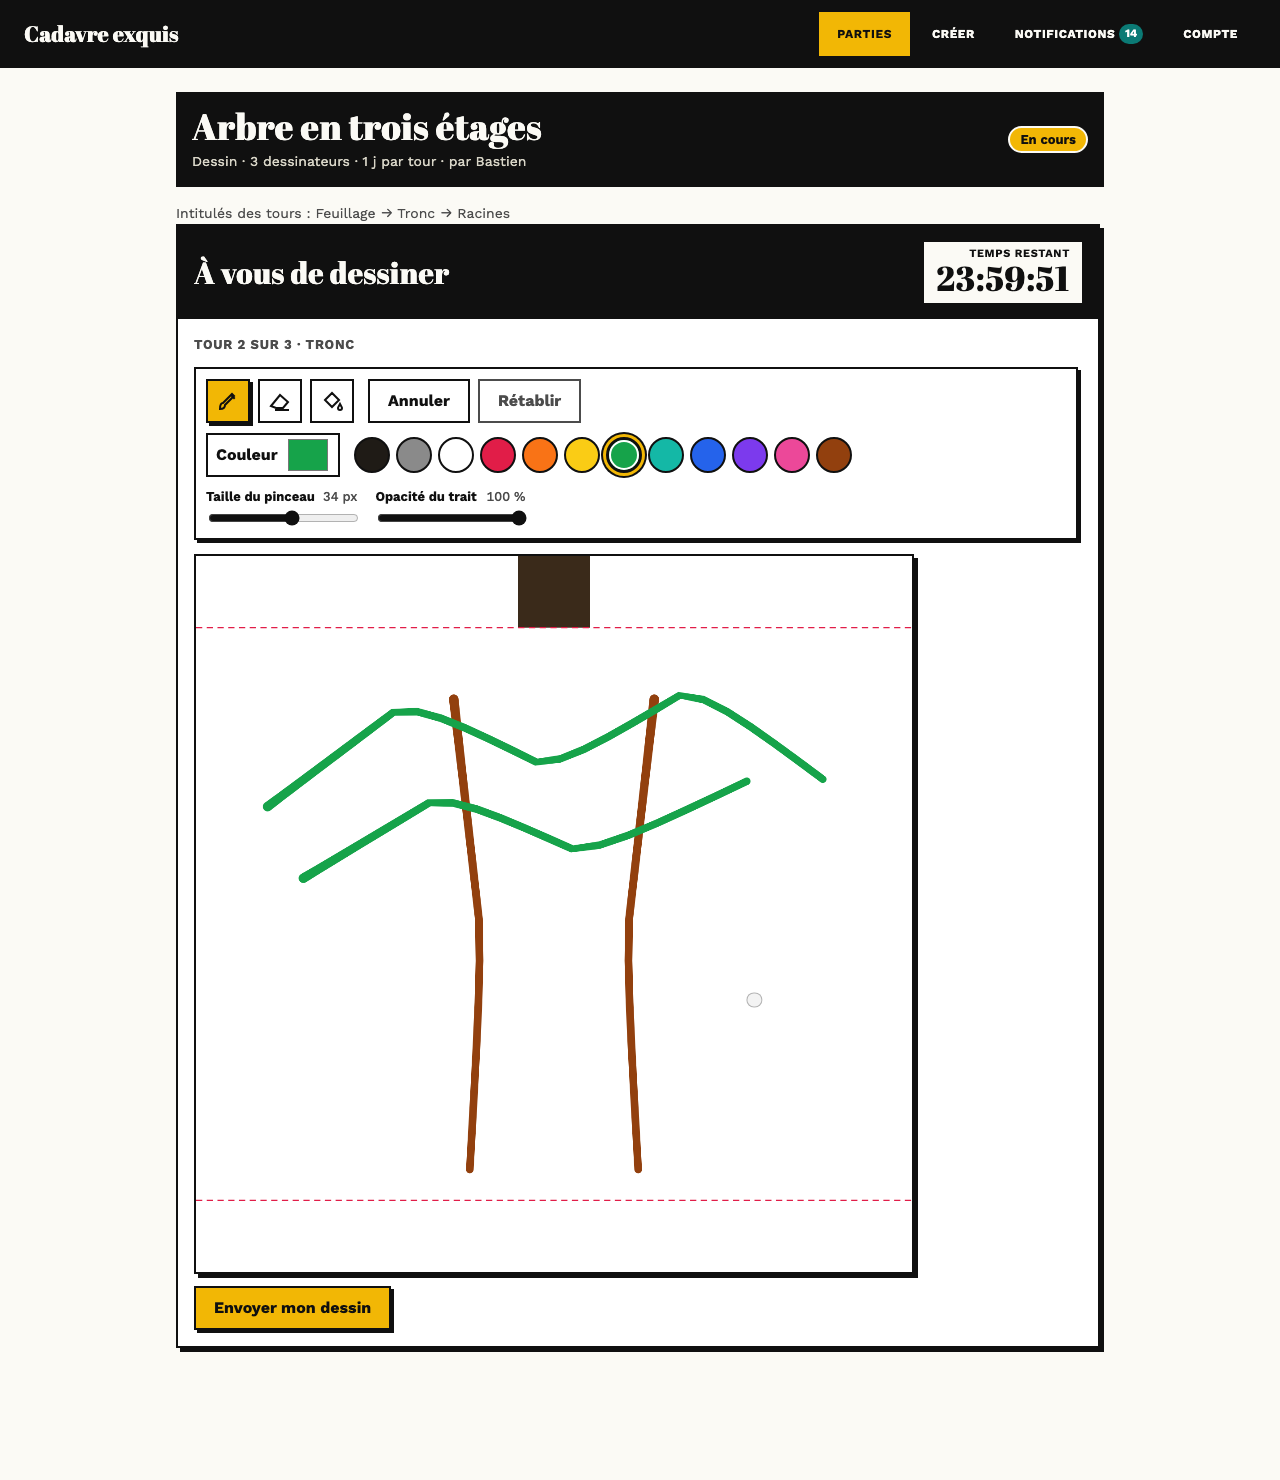
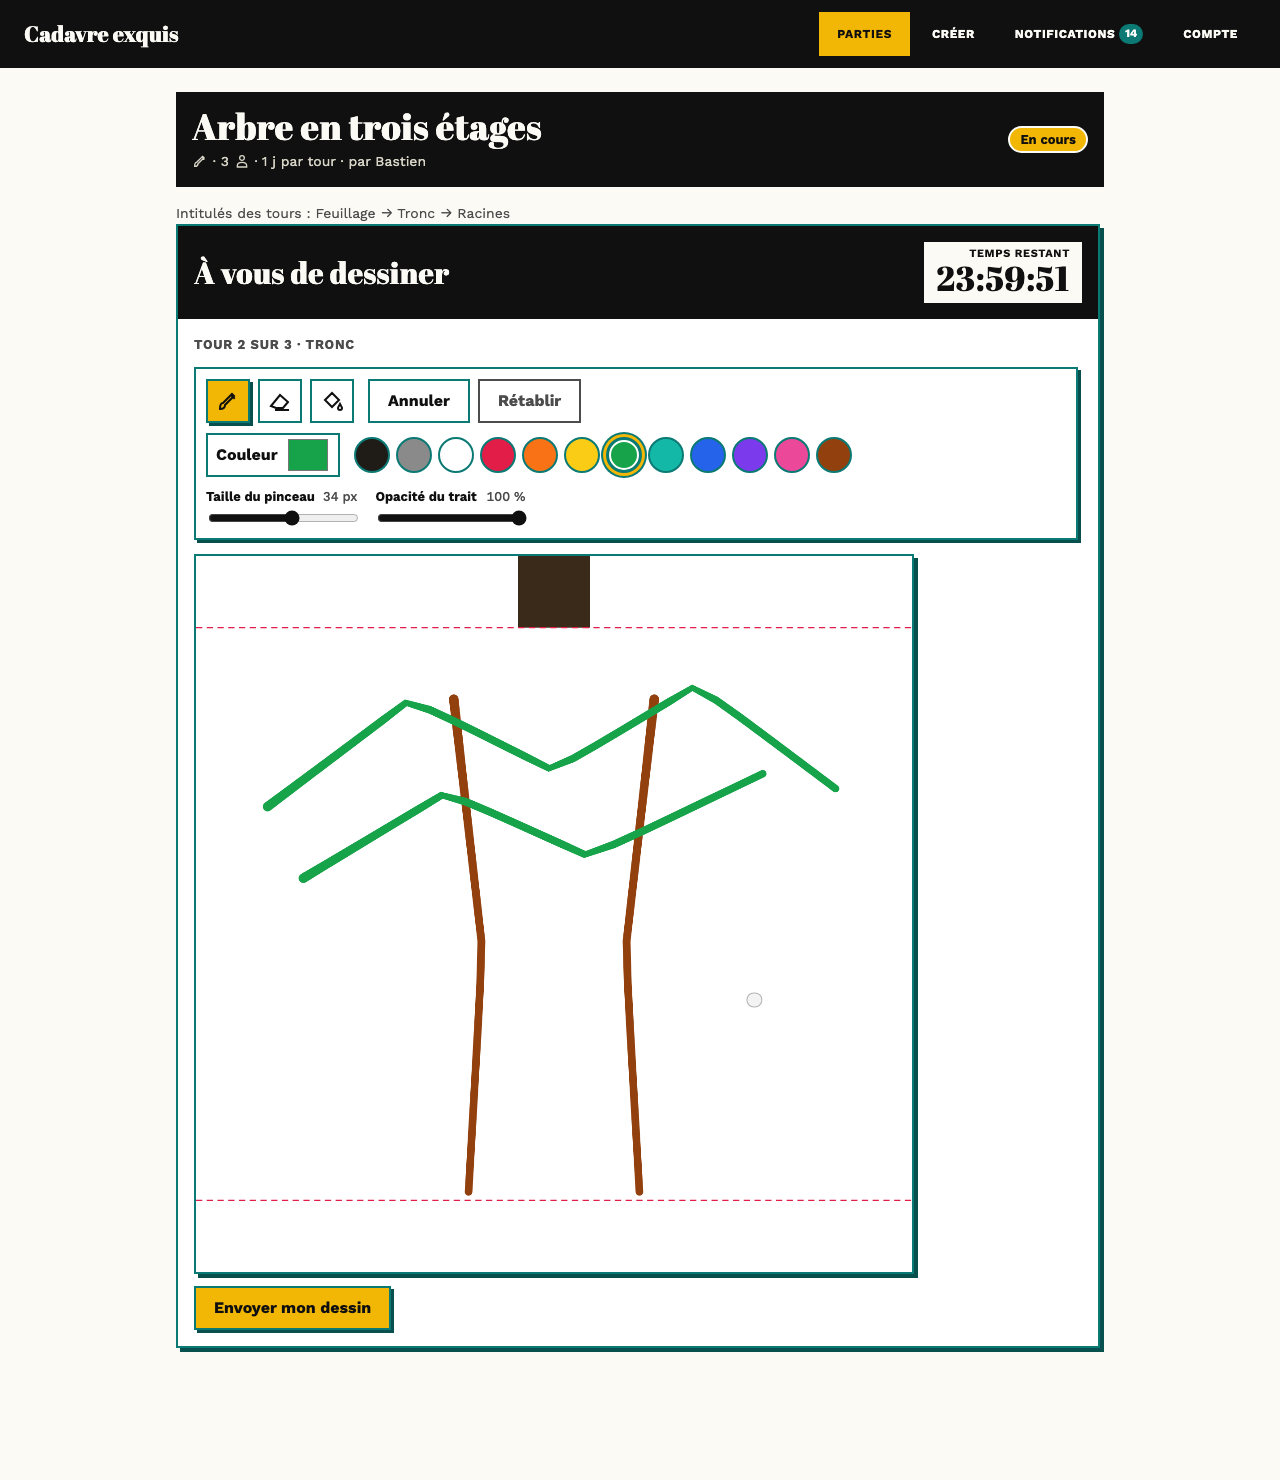
feat: icônes monochromes dans les infos de partie, lignes en couleur, noms des auteurs hors du cadre de l'œuvre, aperçu du trait en demi-résolution

diff --git a/src/app/globals.css b/src/app/globals.css
@@ -1,10 +1,10 @@
 /* Manifeste : jetons de design (voir docs/design/manifeste.md). Thème clair uniquement. */
 :root {
   color-scheme: light;
-  --bg:#FBFAF5; --surface:#FFFFFF; --fg:#101010; --muted:#4C4C4C; --line:#101010;
+  --bg:#FBFAF5; --surface:#FFFFFF; --fg:#101010; --muted:#4C4C4C; --line:#0B7A75;
   --accent:#F2B705; --on-accent:#101010; --accent2:#0B7A75; --on-accent2:#FFFFFF;
   --ok:#0B7A75; --hl:#FFE58A; --dim:#9B9B94; --dim-text:#6B6B64; --danger:#B3261E;
-  --radius:0; --shadow-btn:3px 3px 0 #101010; --shadow-card:4px 4px 0 #101010;
+  --radius:0; --shadow-btn:3px 3px 0 #08504D; --shadow-card:4px 4px 0 #08504D;
   --font-display-stack:var(--font-display), "Abril Fatface", Georgia, serif;
   --font-body-stack:var(--font-body), "Work Sans", system-ui, sans-serif;
   --tabbar-h:56px;
@@ -63,6 +63,8 @@ form button[type="submit"] { margin-top:16px; }
   border:3px solid var(--line); outline:2px solid #fff; outline-offset:-5px; box-shadow:0 0 0 3px var(--accent), 0 0 0 5px var(--line);
 }
 .palette-swatch:focus-visible { outline:3px solid var(--fg); outline-offset:2px; box-shadow:0 0 0 6px var(--accent); }
+.icon { display:inline-block; vertical-align:-3px; flex:none; }
+.pill .icon { vertical-align:-2px; margin-right:3px; }
 .sr-only { position:absolute; width:1px; height:1px; margin:-1px; padding:0; overflow:hidden; clip:rect(0 0 0 0); white-space:nowrap; border:0; }
 
 /* Tableaux et listes */
@@ -103,11 +105,11 @@ main ul > li { padding:10px 2px; border-bottom:2px solid var(--line); }
 
 .tabbar {
   position:fixed; z-index:20; left:0; right:0; bottom:0; display:grid; grid-template-columns:repeat(4, 1fr);
-  background:var(--bg); border-top:3px solid var(--fg); padding-bottom:env(safe-area-inset-bottom, 0px);
+  background:var(--bg); border-top:3px solid var(--line); padding-bottom:env(safe-area-inset-bottom, 0px);
 }
 .tab {
   position:relative; display:flex; align-items:center; justify-content:center; gap:4px; min-height:var(--tabbar-h); width:100%; padding:6px 2px;
-  border:0; border-right:1px solid var(--fg); border-radius:0; background:transparent; color:var(--fg); box-shadow:none;
+  border:0; border-right:2px solid var(--line); border-radius:0; background:transparent; color:var(--fg); box-shadow:none;
   font:inherit; font-size:12px; font-weight:700; letter-spacing:.05em; text-transform:uppercase; text-decoration:none; transition:none;
 }
 .tabbar > :last-child .tab { border-right:0; }
@@ -186,7 +188,7 @@ main ul > li { padding:10px 2px; border-bottom:2px solid var(--line); }
 .final-info { margin-top:28px; }
 p.meta { margin:4px 0 0; }
 .final-name { margin:0 0 16px; font-size:22px; }
-.final-art { margin:0 4px 16px 0; border:2px solid var(--line); background:var(--surface); box-shadow:var(--shadow-card); }
+.final-art { margin:0 4px 12px 0; border:2px solid var(--line); background:var(--surface); box-shadow:var(--shadow-card); }
 .final-authors { margin-top:8px; }
 
 /* Texte final : une barre verticale pleine (noir / moutarde / canard, puis neutres) portant le nom de l'auteur.
@@ -220,8 +222,8 @@ a.game-title:hover { text-decoration:underline; }
 .card-call .game-title { color:var(--on-accent2); }
 .meta { font-size:14px; color:var(--muted); }
 .card-call .meta { color:var(--on-accent2); }
-.card-call .pill.call { background:#fff; color:var(--fg); border-color:var(--fg); }
-.card-call .btn, .card-call button { border-color:var(--fg); }
+.card-call .pill.call { background:#fff; color:var(--fg); border-color:#fff; }
+.card-call .btn, .card-call button { border-color:#fff; }
 .card-call .error { color:#fff; background:var(--danger); padding:2px 6px; }
 .game-action { margin-top:10px; }
 /* Smartphone : les actions passent en bas de la carte, alignées à droite et côte à côte (le temps restant dessous). */
@@ -293,7 +295,7 @@ blockquote.quote { margin:0 0 4px; padding:10px 14px; border:2px solid var(--lin
 /* Avis de temps écoulé et fenêtre de validation */
 .expired-notice { display:flex; flex-wrap:wrap; align-items:center; justify-content:space-between; gap:8px 12px; margin:0 0 20px; box-shadow:var(--shadow-btn); }
 .dialog-backdrop { position:fixed; inset:0; background:rgba(16,16,16,.6); display:grid; place-items:center; z-index:1000; }
-.dialog { width:calc(100% - 32px); max-width:440px; max-height:calc(100% - 32px); overflow-y:auto; padding:24px; background:var(--bg); color:var(--fg); border:3px solid var(--line); border-radius:0; box-shadow:8px 8px 0 var(--line); }
+.dialog { width:calc(100% - 32px); max-width:440px; max-height:calc(100% - 32px); overflow-y:auto; padding:24px; background:var(--bg); color:var(--fg); border:3px solid var(--line); border-radius:0; box-shadow:8px 8px 0 #08504D; }
 .dialog-title { margin:0 0 12px; font-size:24px; }
 .dialog-timer { font-weight:700; }
 .dialog-actions { display:flex; flex-wrap:wrap; gap:10px; margin-top:16px; }

diff --git a/src/components/DrawingEditor.tsx b/src/components/DrawingEditor.tsx
@@ -38,6 +38,8 @@ const PALETTE: { name: string; hex: string }[] = [
 ];
 type History = { ops: Op[]; redo: Op[] };
 /** Style du trait. Un `streamline` élevé lisse davantage mais fait traîner la pointe derrière le doigt : on le garde bas. */
+/** L'aperçu du trait en cours est dessiné à cette échelle : moins de pixels à rasteriser et à envoyer au GPU, surtout sur smartphone. */
+const LIVE_SCALE = 0.5;
 const STROKE_STYLE = { thinning: 0.5, smoothing: 0.5, streamline: 0.2 };
 
 function pathFromStroke(points: number[][]): Path2D {
@@ -209,7 +211,7 @@ export function DrawingEditor({ gameId, direction, rank, total, stripUrl, draft,
       }
       ctx.drawImage(layer, 0, 0);
       // Le tracé validé est désormais dans le calque : on efface l'aperçu en direct.
-      if (!live) liveRef.current?.getContext("2d")?.clearRect(0, 0, width, height);
+      if (!live) liveRef.current?.getContext("2d", { desynchronized: true })?.clearRect(0, 0, width, height);
     },
     [width, height, direction, applyOp, makeLayer],
   );
@@ -231,7 +233,8 @@ export function DrawingEditor({ gameId, direction, rank, total, stripUrl, draft,
     }
     const live = liveRef.current;
     if (!live) return;
-    const lctx = live.getContext("2d")!;
+    const lctx = live.getContext("2d", { desynchronized: true })!;
+    lctx.setTransform(LIVE_SCALE, 0, 0, LIVE_SCALE, 0, 0);
     lctx.clearRect(0, 0, width, height);
     lctx.fillStyle = op.color;
     lctx.fill(pathFromStroke(getStroke(op.points, { size: op.size, ...STROKE_STYLE })));
@@ -262,7 +265,7 @@ export function DrawingEditor({ gameId, direction, rank, total, stripUrl, draft,
     currentRef.current = op;
     if (liveRef.current) {
       liveRef.current.style.opacity = String(opacity);
-      liveRef.current.getContext("2d")?.clearRect(0, 0, width, height);
+      liveRef.current.getContext("2d", { desynchronized: true })?.clearRect(0, 0, width, height);
     }
     moveRing(e);
     scheduleLive();
@@ -417,7 +420,7 @@ export function DrawingEditor({ gameId, direction, rank, total, stripUrl, draft,
           className="drawing-canvas"
         />
         {/* Aperçu du trait de pinceau en cours (au-dessus de la bande héritée), vidé quand le trait est validé */}
-        <canvas ref={liveRef} width={width} height={height} className="live-canvas" aria-hidden="true" />
+        <canvas ref={liveRef} width={width * LIVE_SCALE} height={height * LIVE_SCALE} className="live-canvas" aria-hidden="true" />
         <div ref={ringRef} className="brush-ring" aria-hidden="true" style={{ display: "none" }} />
         {/* Calque de guides : visuel uniquement, jamais exporté */}
         <div className="guides-layer" dangerouslySetInnerHTML={{ __html: guides.replace("<svg ", '<svg style="width:100%;height:100%" ') }} />

diff --git a/src/app/games/[id]/page.tsx b/src/app/games/[id]/page.tsx
@@ -4,6 +4,7 @@ import { JoinButton } from "@/components/JoinButton";
 import { ExpiredNotice } from "@/components/ExpiredNotice";
 import { TurnEditor } from "@/components/TurnEditor";
 import { Banner } from "@/components/ui/Banner";
+import { Icon } from "@/components/ui/Icon";
 import { ButtonLink } from "@/components/ui/Button";
 import { Card } from "@/components/ui/Card";
 import { TurnTitle } from "@/components/TurnTitle";
@@ -13,7 +14,7 @@ import { game } from "@/lib/db/schema";
 import { DomainError } from "@/lib/errors";
 import { Countdown } from "@/components/Countdown";
 import { GameTag } from "@/components/GameTag";
-import { gameMetaText } from "@/components/GameMeta";
+import { GameMetaItems } from "@/components/GameMeta";
 import { turnLabelOf } from "@/lib/format";
 import { getGameView } from "@/lib/services/games";
 import { getActiveTurnInfo, getMyTurn } from "@/lib/services/turns";
@@ -53,7 +54,7 @@ export default async function GamePage({ params, searchParams }: { params: Promi
       {game.status !== "completed" && game.status !== "cancelled" && <AutoRefresh />}
       <Banner
         title={game.name}
-        meta={gameMetaText({ type: game.type, turns: game.turns, turnDurationSeconds: game.turnDurationSeconds, language: game.language, creatorName: view.creatorName })}
+        meta={<GameMetaItems type={game.type} turns={game.turns} turnDurationSeconds={game.turnDurationSeconds} language={game.language} creatorName={view.creatorName} />}
         action={<GameTag kind={game.status === "in_progress" ? (view.openCall ? "call" : "in_progress") : game.status === "open" ? "open" : game.status === "completed" ? "completed" : "cancelled"} />}
       />
       {labels.length > 0 && (
@@ -82,7 +83,7 @@ export default async function GamePage({ params, searchParams }: { params: Promi
         <Card call>
           <span className="pill call">Appel à participation</span>
           <p className="call-text">
-            <span role="img" aria-label="Appel à participation">📢</span> Un tour attend un volontaire.
+            <Icon name="speaker" label="Appel à participation" /> Un tour attend un volontaire.
           </p>
           {!view.isParticipant && <JoinButton gameId={game.id} token={token} claim />}
         </Card>

diff --git a/src/components/FinalViewer.tsx b/src/components/FinalViewer.tsx
@@ -114,6 +114,8 @@ export function FinalViewer({ gameId, direction, width, height, joints, segments
       data-testid="names-rail"
       style={down ? { position: "relative", width: 34, flex: "none" } : { position: "relative", height: 30 }}
     >
+      {/* Aligné sur l'image : le cadre de l'œuvre (bordure de 2 px) est à côté, les noms restent en dehors. */}
+      <div style={{ position: "absolute", inset: down ? "2px 0" : "0 2px" }}>
       {segments.map((s, k) => {
         return (
           <div key={s.rank}>
@@ -139,11 +141,12 @@ export function FinalViewer({ gameId, direction, width, height, joints, segments
           </div>
         );
       })}
+      </div>
     </div>
   );
 
   const image = (
-    <div style={{ position: "relative", flex: 1, minWidth: 0 }}>
+    <div className="final-art" style={{ position: "relative", flex: 1, minWidth: 0 }}>
       {/* eslint-disable-next-line @next/next/no-img-element */}
       <img src={src} alt="Œuvre finale" style={{ width: "100%", height: "auto", display: "block", background: "#fff" }} />
       {showGuides && (
@@ -183,12 +186,10 @@ export function FinalViewer({ gameId, direction, width, height, joints, segments
         <button type="button" onClick={download} disabled={busy}>Télécharger en PNG</button>
       </div>
       {message && <p role="alert" className="notice error">{message}</p>}
-      <div className="final-art" style={{ maxWidth: down ? 480 : undefined }}>
-        <div data-testid="final-scroll" style={{ maxWidth: down ? 480 : "100%", overflowX: "auto" }}>
-          <div data-testid="final-frame" style={{ minWidth: minPx, display: "flex", flexDirection: down ? "row" : "column", alignItems: "stretch" }}>
-            {rail}
-            {image}
-          </div>
+      <div data-testid="final-scroll" style={{ maxWidth: down ? 520 : "100%", overflowX: "auto", paddingBottom: 4 }}>
+        <div data-testid="final-frame" style={{ minWidth: minPx, display: "flex", flexDirection: down ? "row" : "column", alignItems: "stretch" }}>
+          {rail}
+          {image}
         </div>
       </div>
     </div>

diff --git a/src/components/GameMeta.tsx b/src/components/GameMeta.tsx
@@ -1,3 +1,5 @@
+import { Fragment, type ReactNode } from "react";
+import { Icon } from "@/components/ui/Icon";
 import { formatDuration, languageLabel, participantsLabel } from "@/lib/format";
 
 type MetaProps = {
@@ -10,19 +12,34 @@ type MetaProps = {
   extra?: string[];
 };
 
-/** Texte d'informations d'une partie : type · nombre de joueurs · durée · langue · créateur. */
-export function gameMetaText({ type, turns, turnDurationSeconds, language, creatorName, extra }: MetaProps): string {
-  return [
-    type === "drawing" ? "Dessin" : "Texte",
-    participantsLabel(type, turns),
+/**
+ * Informations d'une partie, identiques dans toutes les listes : type (feuille ou pinceau), nombre de joueurs suivi d'un
+ * personnage, durée, langue (drapeau et code), créateur. Chaque icône est monochrome et porte un libellé accessible.
+ */
+export function GameMetaItems({ type, turns, turnDurationSeconds, language, creatorName, extra }: MetaProps) {
+  const items: ReactNode[] = [
+    <Icon key="type" name={type} label={type === "drawing" ? "Dessin" : "Texte"} />,
+    <Fragment key="players">
+      {turns} <Icon name="person" label={participantsLabel(type, turns).replace(/^\d+ /, "")} />
+    </Fragment>,
     `${formatDuration(turnDurationSeconds)} par tour`,
-    ...(type === "text" && language ? [languageLabel(language)] : []),
+    ...(type === "text" && language ? [<span key="lang" title={languageLabel(language)}><Icon name="flag" label={languageLabel(language)} /> {language.toUpperCase()}</span>] : []),
     ...(creatorName ? [`par ${creatorName}`] : []),
     ...(extra ?? []),
-  ].join(" · ");
+  ];
+  return (
+    <>
+      {items.map((item, i) => (
+        <Fragment key={i}>
+          {i > 0 && " · "}
+          {item}
+        </Fragment>
+      ))}
+    </>
+  );
 }
 
-/** Ligne d'informations d'une partie, identique dans toutes les listes. */
+/** Ligne d'informations d'une partie. */
 export function GameMeta(props: MetaProps) {
-  return <p className="meta">{gameMetaText(props)}</p>;
+  return <p className="meta"><GameMetaItems {...props} /></p>;
 }

diff --git a/src/components/ui/Icon.tsx b/src/components/ui/Icon.tsx
@@ -1,0 +1,39 @@
+import type { ReactNode } from "react";
+
+/** Icônes monochromes (trait de la couleur du texte, comme les outils du dessin) : un dessin par nom, 24 × 24. */
+const PATHS: Record<string, ReactNode> = {
+  // Feuille à coin replié et lignes de texte
+  text: <path d="M6 3h8l4 4v14H6zM14 3v4h4M9 12h6M9 16h6" />,
+  // Pinceau
+  drawing: <path d="M4 20c3 0 5-1 5-4l9-9-2-2-9 9c-3 0-3 3-3 6zM15 6l3 3" />,
+  // Personnage : tête et épaules
+  person: <path d="M12 4a3.5 3.5 0 1 0 0 7 3.5 3.5 0 0 0 0-7zM5 21v-2c0-3 3-5 7-5s7 2 7 5v2z" />,
+  // Drapeau à hampe
+  flag: <path d="M6 21V4M6 4h12l-3 4 3 4H6" />,
+  // Haut-parleur (appel à participation)
+  speaker: <path d="M4 9h4l6-5v16l-6-5H4zM17 9c1.5 1.5 1.5 4.5 0 6M20 6c3 3 3 9 0 12" />,
+};
+
+export type IconName = keyof typeof PATHS;
+
+export function Icon({ name, label, size = 16 }: { name: IconName; label?: string; size?: number }) {
+  return (
+    <svg
+      className="icon"
+      viewBox="0 0 24 24"
+      width={size}
+      height={size}
+      fill="none"
+      stroke="currentColor"
+      strokeWidth="2"
+      strokeLinecap="square"
+      strokeLinejoin="miter"
+      role={label ? "img" : undefined}
+      aria-label={label}
+      aria-hidden={label ? undefined : true}
+    >
+      {label && <title>{label}</title>}
+      {PATHS[name]}
+    </svg>
+  );
+}

diff --git a/src/components/GameTag.tsx b/src/components/GameTag.tsx
@@ -1,3 +1,5 @@
+import { Icon } from "@/components/ui/Icon";
+
 /** Étiquette d'état d'une partie, alignée à droite de sa carte ; une couleur par cas. */
 export type GameTagKind = "in_progress" | "open" | "join" | "call" | "completed" | "cancelled";
 
@@ -13,7 +15,7 @@ const LABELS: Record<GameTagKind, string> = {
 export function GameTag({ kind }: { kind: GameTagKind }) {
   return (
     <span className={`pill tag tag-${kind}`}>
-      {kind === "call" && <span role="img" aria-label="Appel à participation">📢 </span>}
+      {kind === "call" && <Icon name="speaker" label="Appel à participation" size={14} />}
       {LABELS[kind]}
     </span>
   );

diff --git a/docs/design/manifeste.md b/docs/design/manifeste.md
@@ -8,14 +8,14 @@ Affiche surréaliste des années 1920 : aplats, bordures noires de 2 px, ombres 
 |---|---|---|
 | `--bg` / `--surface` | `#FBFAF5` / `#FFFFFF` | fond de page / cartes, champs |
 | `--fg` / `--muted` | `#101010` / `#4C4C4C` | texte / texte secondaire (4,5:1 minimum) |
-| `--line` | `#101010` | toutes les bordures (2 px) |
+| `--line` | `#0B7A75` | toutes les bordures (2 px) : aucune ligne noire |
 | `--accent` / `--on-accent` | `#F2B705` / `#101010` | action primaire, onglet actif ; texte noir uniquement |
 | `--accent2` / `--on-accent2` | `#0B7A75` / `#FFFFFF` | liens, pastilles, carte d'appel à participation |
 | `--ok` / `--danger` | `#0B7A75` / `#B3261E` | succès / erreur |
 | `--hl` | `#FFE58A` | surlignage du texte transmis |
 | `--dim` | `#9B9B94` | décor seulement (contraste insuffisant pour du texte) |
 | `--radius` | `0` | aucun arrondi (sauf pastilles) |
-| `--shadow-btn` / `--shadow-card` | `3px 3px 0 #101010` / `4px 4px 0 #101010` | ombres dures |
+| `--shadow-btn` / `--shadow-card` | `3px 3px 0 #08504D` / `4px 4px 0 #08504D` | ombres dures |
 
 Polices : Abril Fatface (`--font-display`, titres, repli Georgia) et Work Sans 400/500/700 (`--font-body`, repli system-ui), chargées par `next/font/google` (auto-hébergées au build, aucune requête externe à l'exécution).
 
